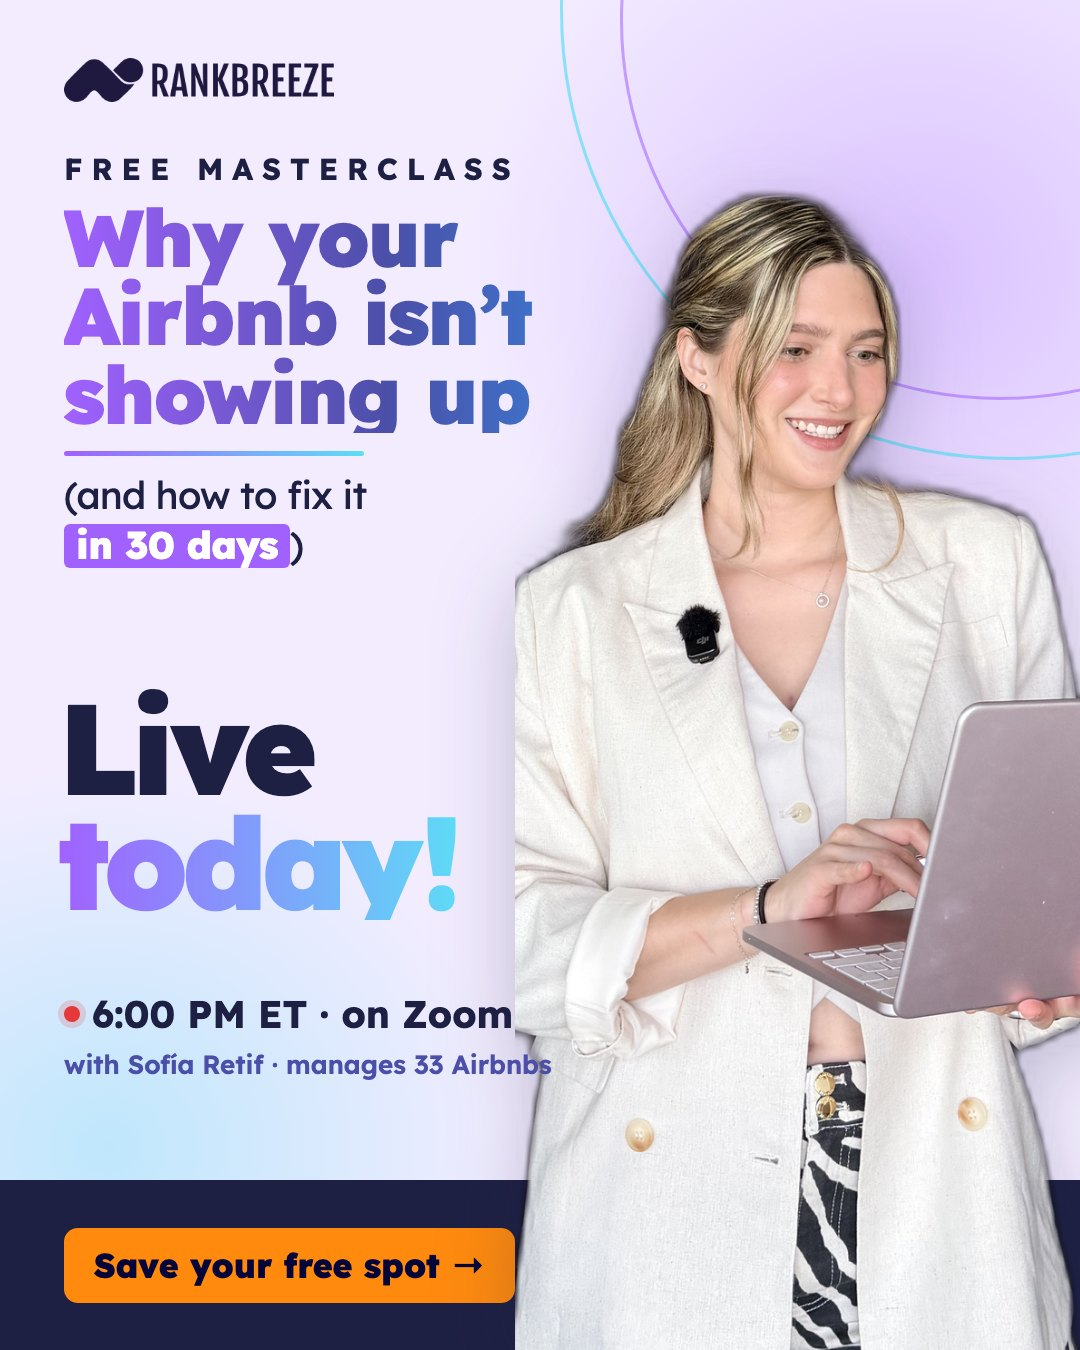
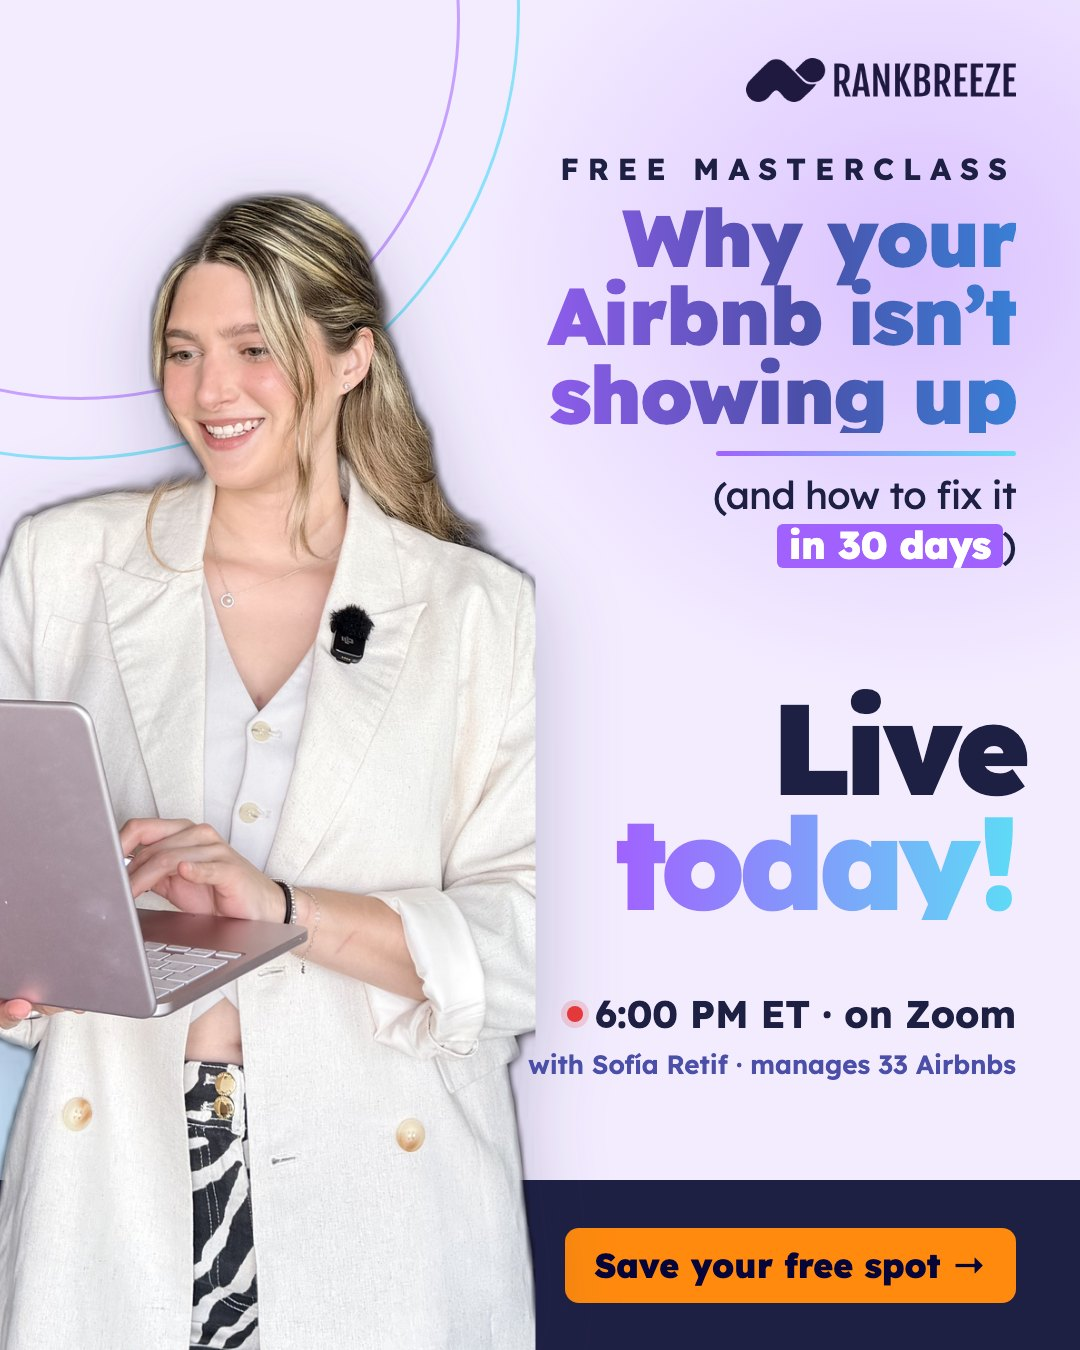
RankBreeze portfolio: masterclass post with photo on the left, uncropped

diff --git a/rankbreeze/index.html b/rankbreeze/index.html
@@ -860,7 +860,7 @@
         <p class="mc-k">Headlines I'd A/B test</p>
         <ol class="heads"><li class="on"><span>A</span>Why your Airbnb isn’t showing up (and how to fix it in 30 days)</li><li><span>B</span>Back to page 1: 3 data-backed fixes to get your Airbnb booked more</li><li><span>C</span>Page 14 → Page 2: how hosts climb Airbnb search</li><li><span>D</span>Your listing didn’t get worse. It got buried.</li><li><span>E</span>Stop guessing: the price, photos and title that actually book</li><li><span>F</span>The 3 ranking levers Airbnb doesn’t tell you about</li></ol>
       </div>
-      <figure class="mc-poster"><img src="/assets/rankbreeze/masterclass-poster.jpg?v=4" alt="Concept Instagram post for a free Rankbreeze masterclass: Why your Airbnb isn’t showing up (and how to fix it in 30 days), live today with Sofía Retif" loading="lazy"><figcaption>The launch post, in your brand</figcaption></figure>
+      <figure class="mc-poster"><img src="/assets/rankbreeze/masterclass-poster.jpg?v=5" alt="Concept Instagram post for a free Rankbreeze masterclass: Why your Airbnb isn’t showing up (and how to fix it in 30 days), live today with Sofía Retif" loading="lazy"><figcaption>The launch post, in your brand</figcaption></figure>
     </div>
     <p class="ig-note">Concept mockup made for this application. Not an official Rankbreeze account or post.</p>
   </div>
